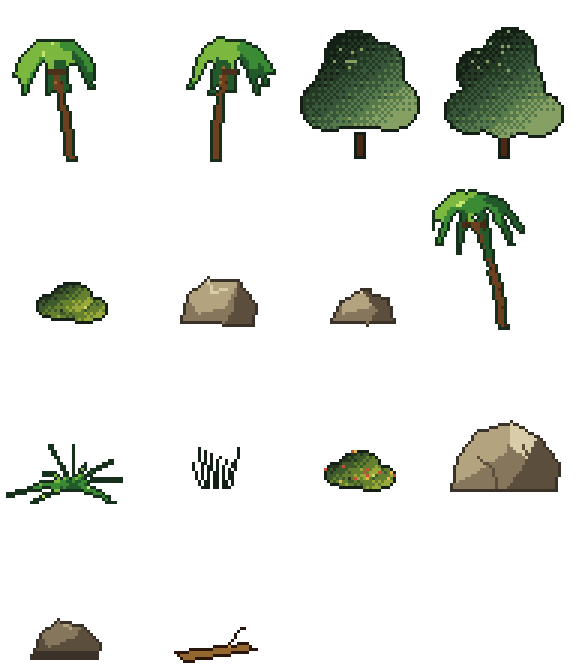
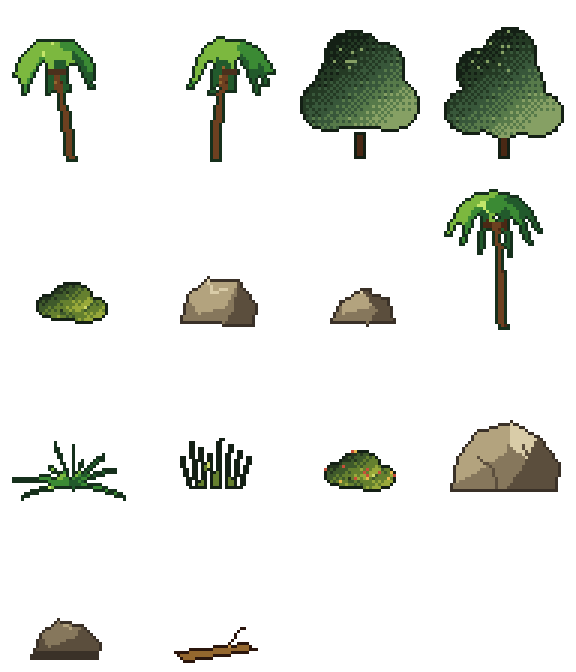
H2D-1: art check updated, grass fix

Changed region(s): [[0.75, 0.2812, 0.9375, 0.4688], [0.0, 0.6562, 0.2188, 0.75], [0.3125, 0.6562, 0.4375, 0.75]]

diff --git a/pixel_pirates/tools/h2d/check_h2d_art.py b/pixel_pirates/tools/h2d/check_h2d_art.py
@@ -1,4 +1,4 @@
-"""Checks the H2D-0 baked art (ship sheets, island maps, tree atlas). Fails on hard errors, only WARNS on readability.
+"""Checks the baked art (ship sheets, Anvil Cay maps, vegetation and structure atlases). Fails on hard errors, only WARNS on readability.
 
   python tools/h2d/check_h2d_art.py            # run the checks
   python tools/h2d/check_h2d_art.py --sheet    # also write art_bible/h2d0/ship_adjacent_xor.png
@@ -121,10 +121,30 @@ def check_ship(sheet: bool) -> None:
         print("wrote", dst)
 
 
+def check_atlas(name: str, cw: int, ch: int, cap: int, owner: dict[str, str], label: str) -> None:
+    atlas = load(name)
+    tc = colours(atlas)
+    out_t = sorted(c for c in tc if c not in owner)
+    if out_t:
+        fail(f"{label} colours not in palette.json: {out_t[:6]}")
+    if len(tc) > cap:
+        fail(f"{label} colours {len(tc)} > {cap}")
+    if atlas.shape[1] % cw or atlas.shape[0] % ch:
+        fail(f"{label} size is not a multiple of {cw} x {ch}")
+    else:
+        for r in range(atlas.shape[0] // ch):
+            for c in range(atlas.shape[1] // cw):
+                cell = atlas[r * ch:(r + 1) * ch, c * cw:(c + 1) * cw, 3] >= 128
+                if cell.any() and (cell[0].any() or cell[-1].any() or cell[:, 0].any() or cell[:, -1].any()):
+                    fail(f"{label} cell ({c},{r}) touches its border")
+    print(f"{label}: {len(tc)} colours, atlas {atlas.shape[1]}x{atlas.shape[0]}")
+
+
 def check_island() -> None:
+    """H2D-1 Anvil Cay (the older H2D-0 island files stay in the repo, unused, and are no longer checked)."""
     owner, limits = palette()
-    meta = json.loads((ART / "island_anvil.json").read_text())
-    albedo = load("island_anvil_albedo.png")
+    meta = json.loads((ART / "anvil_cay.json").read_text())
+    albedo = load("anvil_cay_albedo.png")
     cols = colours(albedo)
     outside = sorted(c for c in cols if c not in owner)
     if outside:
@@ -132,29 +152,14 @@ def check_island() -> None:
     cap = limits["max_colours_per_sheet"]["tiles"] + limits["max_colours_per_sheet"]["props"]
     if len(cols) > cap:
         fail(f"island albedo colours {len(cols)} > {cap}")
-    data = load("island_anvil_data.png")
-    if data.shape[:2] != albedo.shape[:2]:
+    if load("anvil_cay_data.png").shape[:2] != albedo.shape[:2]:
         fail("island data map size differs from albedo")
-    if load("island_anvil_normal.png").shape[:2] != albedo.shape[:2]:
+    if load("anvil_cay_normal.png").shape[:2] != albedo.shape[:2]:
         fail("island normal map size differs from albedo")
     print(f"island: {albedo.shape[1]}x{albedo.shape[0]} px, {len(cols)} albedo colours, size {meta.get('size_m')} m")
-    atlas = load("trees_atlas.png")
-    tc = colours(atlas)
-    out_t = sorted(c for c in tc if c not in owner)
-    if out_t:
-        fail(f"tree atlas colours not in palette.json: {out_t[:6]}")
-    if len(tc) > limits["max_colours_per_sheet"]["props"]:
-        fail(f"tree atlas colours {len(tc)} > {limits['max_colours_per_sheet']['props']}")
-    cw, ch = 48, 56
-    if atlas.shape[1] % cw or atlas.shape[0] % ch:
-        fail("tree atlas size is not a multiple of 48 x 56")
-    else:
-        for r in range(atlas.shape[0] // ch):
-            for c in range(atlas.shape[1] // cw):
-                cell = atlas[r * ch:(r + 1) * ch, c * cw:(c + 1) * cw, 3] >= 128
-                if cell.any() and (cell[0].any() or cell[-1].any() or cell[:, 0].any() or cell[:, -1].any()):
-                    fail(f"tree cell ({c},{r}) touches its border")
-    print(f"trees: {len(tc)} colours, atlas {atlas.shape[1]}x{atlas.shape[0]}")
+    props = limits["max_colours_per_sheet"]["props"]
+    check_atlas("anvil_veg_atlas.png", 48, 56, props, owner, "vegetation atlas")
+    check_atlas("anvil_struct_atlas.png", 80, 72, props, owner, "structure atlas")
 
 
 def main() -> int:

diff --git a/pixel_pirates/tools/h2d/bake_harbor.py b/pixel_pirates/tools/h2d/bake_harbor.py
@@ -423,7 +423,7 @@ def sprite_palm_c() -> np.ndarray:
     pts = []
     for i in range(0, 31):
         t = i / 30.0
-        pts.append((PIVOT[0] + (-3.4) * (t ** 1.5) * 3.2 + 1.6 * math.sin(t * 3.0) * t, PIVOT[1] - 36.0 * t))
+        pts.append((PIVOT[0] + (-1.2) * (t ** 1.5) * 3.2 + 1.6 * math.sin(t * 3.0) * t, PIVOT[1] - 36.0 * t))
     for i, (x, y) in enumerate(pts):
         wdt = 3 if i < 16 else 2
         d.rectangle([x - wdt / 2 - 0.5, y, x + wdt / 2 - 0.5, y + 1], fill=col("wood", 2))
@@ -434,7 +434,7 @@ def sprite_palm_c() -> np.ndarray:
     top = pts[-1]
     for f in range(9):
         ang = (f / 9.0) * 2 * math.pi + 0.5
-        length = 15 + 2.0 * math.sin(f * 1.7)
+        length = 14 + 2.0 * math.sin(f * 1.7)
         for s in range(0, 41):
             t = s / 40.0
             fx = top[0] + math.cos(ang) * length * t
@@ -462,7 +462,7 @@ def sprite_fern() -> np.ndarray:
     d = ImageDraw.Draw(img)
     bx, by = 24, 50
     for b in range(11):
-        ang = math.radians(-100 + b * 20)   # fan of blades
+        ang = math.radians(-80 + b * 16)   # fan of blades
         length = 15 + 4 * math.sin(b * 1.9)
         for s in range(0, 31):
             t = s / 30.0
@@ -480,12 +480,14 @@ def sprite_grass() -> np.ndarray:
     img = new_img(CELL_W, CELL_H)
     d = ImageDraw.Draw(img)
     for b in range(8):
-        x0 = 19 + b * 1.4
-        h = 9 + (b * 5) % 6
+        x0 = 15 + b * 2.4
+        h = 11 + (b * 5) % 7
         lean = (b - 3.5) * 0.9
         for s in range(h):
             t = s / h
-            d.point((x0 + lean * t, 50 - s), fill=col("grass", 4 if t > 0.55 else (3 if b % 2 else 2)))
+            c0 = col("grass", 4 if t > 0.55 else (3 if b % 2 else 2))
+            d.point((x0 + lean * t, 50 - s), fill=c0)
+            d.point((x0 + lean * t + 1, 50 - s), fill=col("grass", 2 if t < 0.55 else 3))
     return _out_grass(img)
 
 
